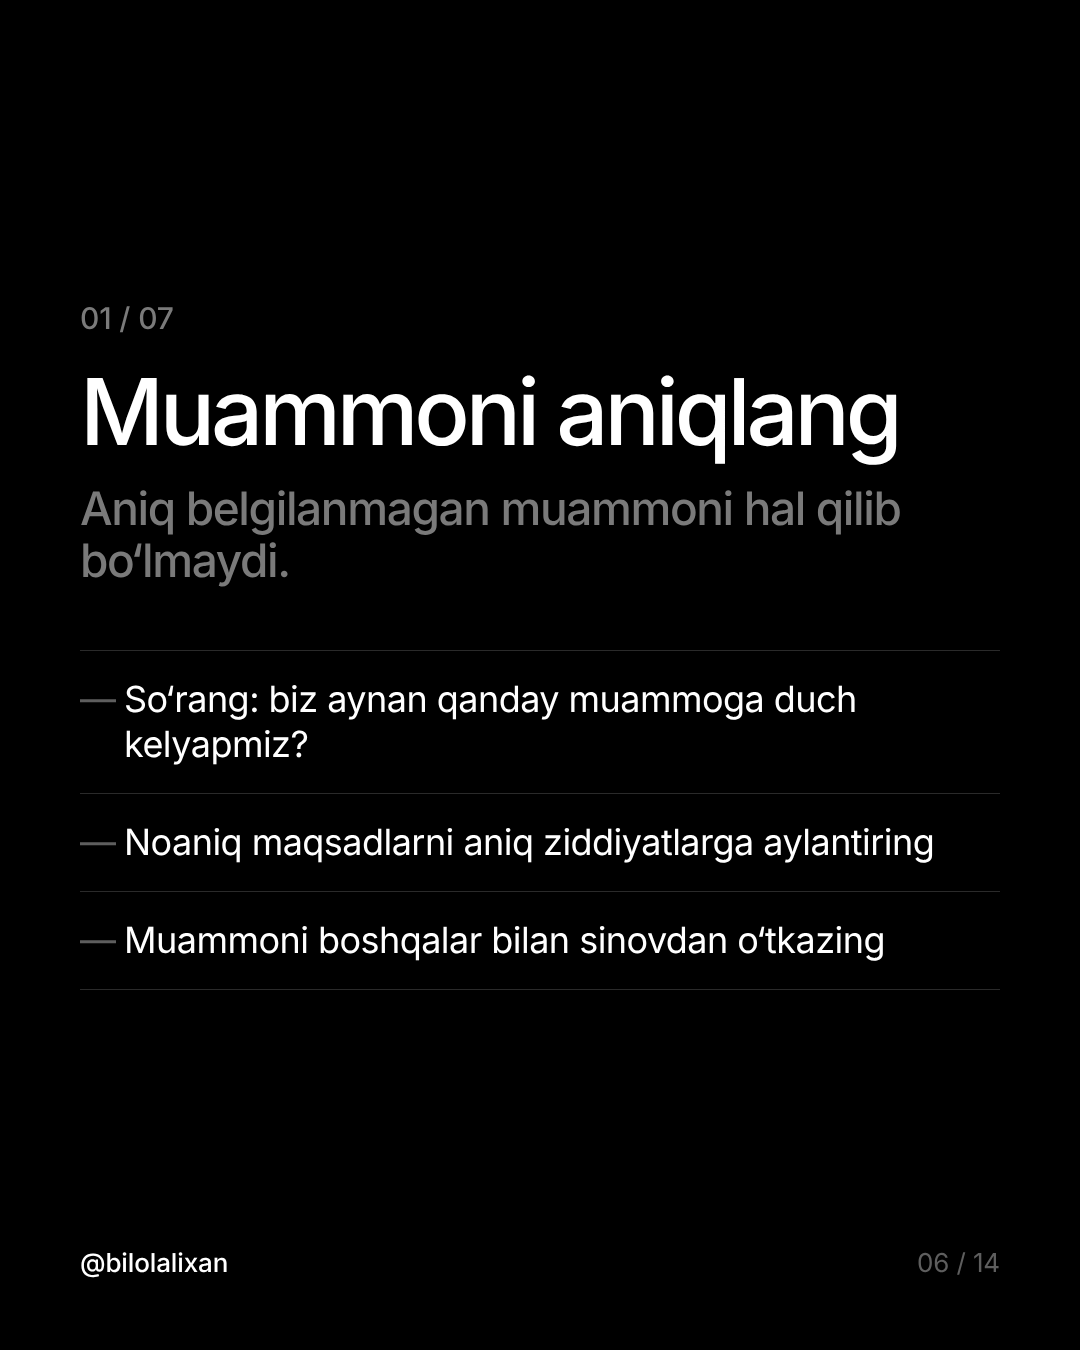
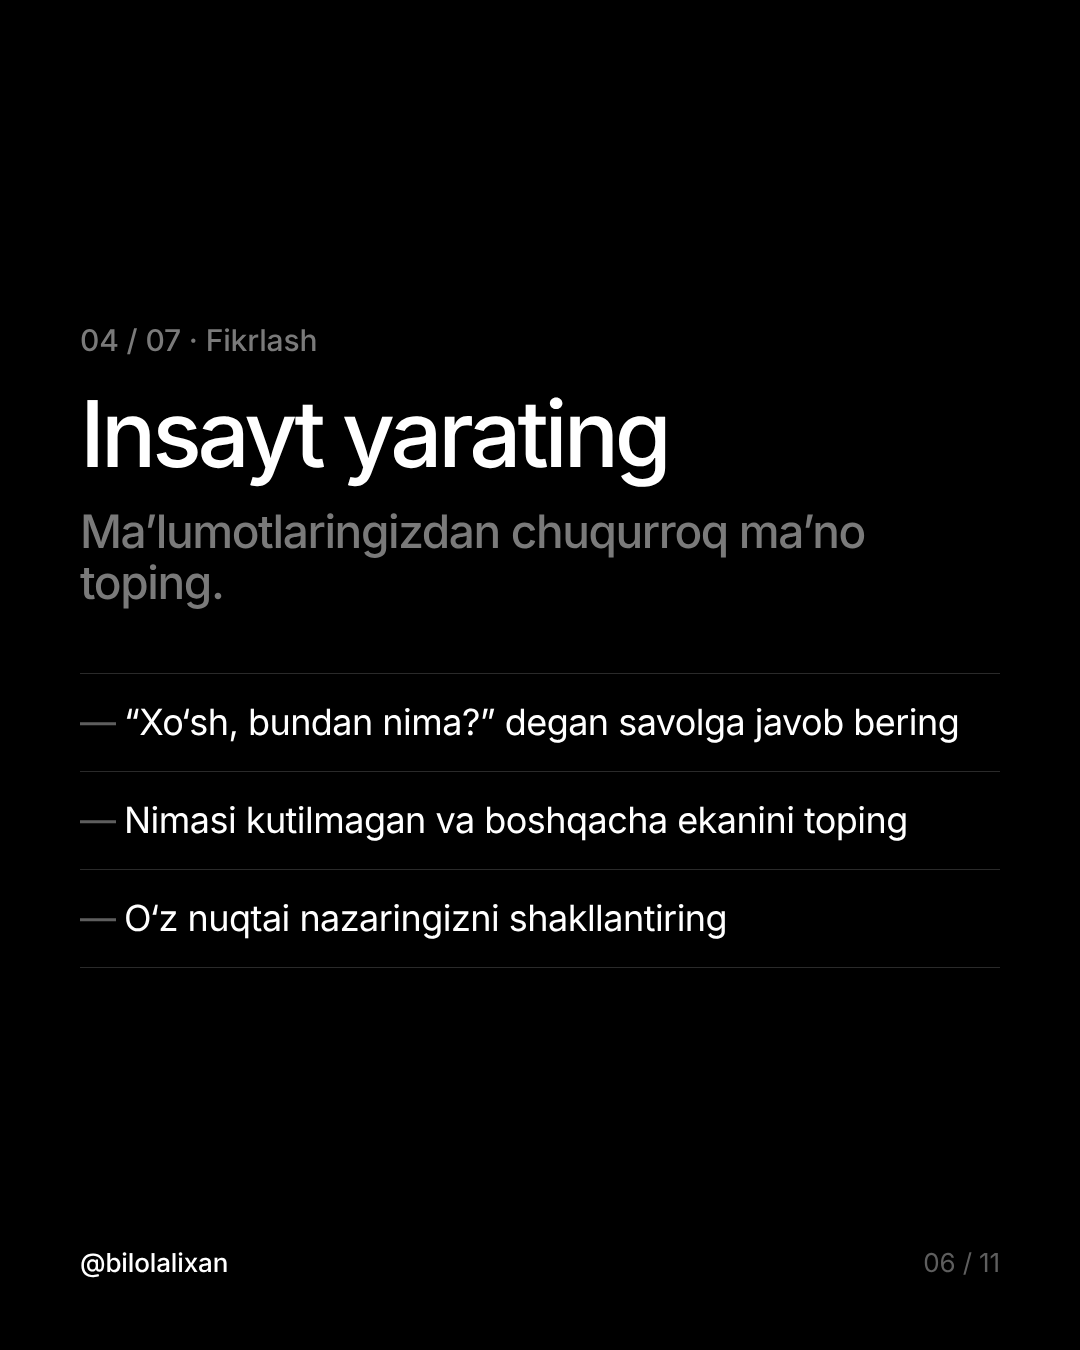
Strategy carousel: use infographic text instead of caption
Claude-Session: https://claude.ai/code/session_016hDDYxXRao7raJTtdDbdUH

diff --git a/carousel-strategiya/carousel.html b/carousel-strategiya/carousel.html
@@ -15,18 +15,15 @@ li::before{content:"—";position:absolute;left:0;color:#5E5E5E}
 .u,.n{position:absolute;bottom:72px;font-size:26px;font-weight:500;letter-spacing:-.005em}
 .u{left:80px;color:#FFF}.n{right:80px;color:#5E5E5E;font-weight:400}
 </style></head><body>
-<section class="s" id="s1"><div class="t" style="font-size:92px">Fikringiz tumanli bo‘lsa, <span class="g">strategiyangiz ham tumanli bo‘ladi.</span></div><div class="u">@bilolalixan</div><div class="n">01 / 14</div></section>
-<section class="s" id="s2"><div class="t" style="font-size:104px">Aniqlik — <span class="g">sizning eng katta ustunligingiz.</span></div><div class="u">@bilolalixan</div><div class="n">02 / 14</div></section>
-<section class="s" id="s3"><div class="t" style="font-size:82px">Muhim qarorlarda asosiy muammo — “tuman”: <span class="g">noaniq maqsadlar, bir&#8209;biriga zid fikrlar, cheksiz yig‘ilishlar va hech qanday natija yo‘q.</span></div><div class="u">@bilolalixan</div><div class="n">03 / 14</div></section>
-<section class="s" id="s4"><div class="t" style="font-size:82px">Aniq fikrlaydiganlar bu tumanni yorib o‘tadi. <span class="g">Ular tartibsizlikka tartib beradi va ishni oldinga siljitadigan qarorlar qabul qiladi.</span></div><div class="u">@bilolalixan</div><div class="n">04 / 14</div></section>
-<section class="s" id="s5"><div class="t" style="font-size:104px">Mana buni 7 bosqichda qanday qilish mumkin:</div><div class="u">@bilolalixan</div><div class="n">05 / 14</div></section>
-<section class="s" id="s6"><div><div class="no">01 / 07</div><div class="t" style="font-size:92px">Muammoni aniqlang</div><div class="st">Aniq belgilanmagan muammoni hal qilib bo‘lmaydi.</div><ul><li>So‘rang: biz aynan qanday muammoga duch kelyapmiz?</li><li>Noaniq maqsadlarni aniq ziddiyatlarga aylantiring</li><li>Muammoni boshqalar bilan sinovdan o‘tkazing</li></ul></div><div class="u">@bilolalixan</div><div class="n">06 / 14</div></section>
-<section class="s" id="s7"><div><div class="no">02 / 07</div><div class="t" style="font-size:92px">Kichik qismlarga bo‘ling</div><div class="st">Katta muammolar murakkablik ichida yashirinadi.</div><ul><li>“Muammolar daraxti” yoki “5 marta nega?” usulidan foydalaning</li><li>Eng muhim qismlarni birinchi o‘ringa qo‘ying</li><li>Asl sabablarni yuzaki belgilardan ajrating</li></ul></div><div class="u">@bilolalixan</div><div class="n">07 / 14</div></section>
-<section class="s" id="s8"><div><div class="no">03 / 07</div><div class="t" style="font-size:92px">Har bir qismni tahlil qiling</div><div class="st">Taxmin qilmang, dalilga tayaning.</div><ul><li>Ma’lumotlar, trendlar va xatti&#8209;harakatlarga qarang</li><li>To‘siqlar, bo‘shliqlar va g‘ayrioddiy holatlarni toping</li><li>So‘rang: buni nima harakatlantiryapti va nima o‘zgardi?</li></ul></div><div class="u">@bilolalixan</div><div class="n">08 / 14</div></section>
-<section class="s" id="s9"><div><div class="no">04 / 07</div><div class="t" style="font-size:92px">Insayt yarating</div><div class="st">Umumlashtirish faktlarni ma’noga aylantiradi.</div><ul><li>Har bir topilmadan keyin “Xo‘sh, bundan nima?” deb so‘rang</li><li>Ko‘rinmaydigan cheklovlarni yuzaga chiqaring</li><li>Nima qilish kerakligi haqida aniq nuqtai nazar shakllantiring</li></ul></div><div class="u">@bilolalixan</div><div class="n">09 / 14</div></section>
-<section class="s" id="s10"><div><div class="no">05 / 07</div><div class="t" style="font-size:92px">Hikoya tuzing</div><div class="st">Strategiya boshqalar tushunsagina foydali.</div><ul><li>Uni “muammo → katta g‘oya → harakat” ko‘rinishida tuzing</li><li>Auditoriyangizga moslashtiring</li><li>Sodda, tartibli va esda qoladigan qiling</li></ul></div><div class="u">@bilolalixan</div><div class="n">10 / 14</div></section>
-<section class="s" id="s11"><div><div class="no">06 / 07</div><div class="t" style="font-size:92px">Qaror qabul qiling</div><div class="st">Mukammal vaqtni kutmang.</div><ul><li>Nimadan voz kechayotganingizni aniq belgilang</li><li>O‘zingiz uchun mantiqli mezonlar asosida tanlang</li><li>Ishonch bilan qaror qiling</li></ul></div><div class="u">@bilolalixan</div><div class="n">11 / 14</div></section>
-<section class="s" id="s12"><div><div class="no">07 / 07</div><div class="t" style="font-size:92px">Dadil harakat qiling</div><div class="st">Ijrosiz fikrlash hech narsa emas.</div><ul><li>Tez va aniq yo‘naltirilgan tajribalardan boshlang</li><li>Silliqlikdan ko‘ra o‘rganishni ustun qo‘ying</li><li>Ishonch uyg‘otadigan, ko‘zga ko‘rinadigan g‘alabalar yarating</li><li>O‘rganing va takomillashtiring</li></ul></div><div class="u">@bilolalixan</div><div class="n">12 / 14</div></section>
-<section class="s" id="s13"><div class="t" style="font-size:82px">Aniq fikrlash — bu super kuch. <span class="g">Fikringizni tartibga soling, aniq gapiring va odamlarni harakatga undang.</span></div><div class="u">@bilolalixan</div><div class="n">13 / 14</div></section>
-<section class="s" id="s14"><div><div class="t g" style="font-size:92px">Shu kabi foydali ma’lumotlar uchun</div><div class="t" style="font-size:92px;margin-top:6px">sahifamga obuna bo‘ling.</div><div class="h">@bilolalixan</div><div class="sub">Saqlab qo‘ying va kerakli odamga ulashing.</div></div><div class="u">@bilolalixan</div><div class="n">14 / 14</div></section>
+<section class="s" id="s1"><div class="t" style="font-size:82px">Strategik fikrlash. <span class="g">Murakkab muammolarni hal qilish, ishonarli gapirish va qat’iy harakat qilish uchun 7 bosqichli metod.</span></div><div class="u">@bilolalixan</div><div class="n">01 / 11</div></section>
+<section class="s" id="s2"><div class="t" style="font-size:92px">1–4-bosqichlar — fikrlash. <span class="g">O‘z nuqtai nazaringiz va strategik qadamingizni qurasiz.</span></div><div class="u">@bilolalixan</div><div class="n">02 / 11</div></section>
+<section class="s" id="s3"><div><div class="no">01 / 07 · Fikrlash</div><div class="t" style="font-size:92px">Muammoni aniqlang</div><div class="st">Biz hal qilayotgan <i>haqiqiy</i> muammoni toping.</div><ul><li>Ziddiyatni toping: nima ishlamayapti va nega bu muhim</li><li>Kerak bo‘lsa, muammoni qayta shakllantiring</li></ul></div><div class="u">@bilolalixan</div><div class="n">03 / 11</div></section>
+<section class="s" id="s4"><div><div class="no">02 / 07 · Fikrlash</div><div class="t" style="font-size:92px">Kichik qismlarga bo‘ling</div><div class="st">Murakkab muammoni boshqariladigan qiling.</div><ul><li>Muammoni bo‘laklash uchun “muammolar daraxti”dan foydalaning</li><li>Asl sababga yetish uchun “5 marta nega?” usulini qo‘llang</li></ul></div><div class="u">@bilolalixan</div><div class="n">04 / 11</div></section>
+<section class="s" id="s5"><div><div class="no">03 / 07 · Fikrlash</div><div class="t" style="font-size:92px">Har bir qismni tahlil qiling</div><div class="st">Muammoni o‘rganing va dalil toping.</div><ul><li>80/20, trend tahlili, benchmark kabi vositalardan foydalaning</li><li>Natijaga eng ko‘p ta’sir qiladigan narsani toping</li></ul></div><div class="u">@bilolalixan</div><div class="n">05 / 11</div></section>
+<section class="s" id="s6"><div><div class="no">04 / 07 · Fikrlash</div><div class="t" style="font-size:92px">Insayt yarating</div><div class="st">Ma’lumotlaringizdan chuqurroq ma’no toping.</div><ul><li>“Xo‘sh, bundan nima?” degan savolga javob bering</li><li>Nimasi kutilmagan va boshqacha ekanini toping</li><li>O‘z nuqtai nazaringizni shakllantiring</li></ul></div><div class="u">@bilolalixan</div><div class="n">06 / 11</div></section>
+<section class="s" id="s7"><div class="t" style="font-size:92px">5–7-bosqichlar — ta’sir qilish. <span class="g">Ishonarli hikoya qilasiz va strategiyani hayotga tatbiq etasiz.</span></div><div class="u">@bilolalixan</div><div class="n">07 / 11</div></section>
+<section class="s" id="s8"><div><div class="no">05 / 07 · Ta’sir qilish</div><div class="t" style="font-size:92px">Hikoya tuzing</div><div class="st">Javobni ishonarli hikoyaga aylantiring.</div><ul><li>Yaxshi hikoya muammo, katta g‘oya va harakatni tushuntiradi</li><li>Sodda til va vizuallardan foydalaning</li></ul></div><div class="u">@bilolalixan</div><div class="n">08 / 11</div></section>
+<section class="s" id="s9"><div><div class="no">06 / 07 · Ta’sir qilish</div><div class="t" style="font-size:92px">Qaror qabul qiling</div><div class="st">Nimadan voz kechayotganingizni bilib, tanlov qiling.</div><ul><li>Variantlarni aniq belgilang: har biri boshqasidan farq qilsin</li><li>Baholash usulidan foydalaning</li></ul></div><div class="u">@bilolalixan</div><div class="n">09 / 11</div></section>
+<section class="s" id="s10"><div><div class="no">07 / 07 · Ta’sir qilish</div><div class="t" style="font-size:92px">Dadil harakat qiling</div><div class="st">Aniq fikrlash faqat harakatga olib kelsa qadrli.</div><ul><li>Mukammallikdan ko‘ra tezlikni ustun qo‘ying</li><li>Kichik tajribalardan boshlang</li><li>O‘rganing va takomillashtiring</li></ul></div><div class="u">@bilolalixan</div><div class="n">10 / 11</div></section>
+<section class="s" id="s11"><div><div class="t g" style="font-size:92px">Shu kabi foydali ma’lumotlar uchun</div><div class="t" style="font-size:92px;margin-top:6px">sahifamga obuna bo‘ling.</div><div class="h">@bilolalixan</div><div class="sub">Saqlab qo‘ying va kerakli odamga ulashing.</div></div><div class="u">@bilolalixan</div><div class="n">11 / 11</div></section>
 </body></html>

diff --git a/carousel-strategiya/slides.py b/carousel-strategiya/slides.py
@@ -2,26 +2,23 @@
 # [g]...[/g] marks the grey (secondary) part of a sentence.
 USER = "@bilolalixan"
 S = [
- "Fikringiz tumanli bo‘lsa, [g]strategiyangiz ham tumanli bo‘ladi.[/g]",
- "Aniqlik — [g]sizning eng katta ustunligingiz.[/g]",
- "Muhim qarorlarda asosiy muammo — “tuman”: [g]noaniq maqsadlar, bir&#8209;biriga zid fikrlar, cheksiz yig‘ilishlar va hech qanday natija yo‘q.[/g]",
- "Aniq fikrlaydiganlar bu tumanni yorib o‘tadi. [g]Ular tartibsizlikka tartib beradi va ishni oldinga siljitadigan qarorlar qabul qiladi.[/g]",
- "Mana buni 7 bosqichda qanday qilish mumkin:",
- ("Muammoni aniqlang", "Aniq belgilanmagan muammoni hal qilib bo‘lmaydi.",
-  ["So‘rang: biz aynan qanday muammoga duch kelyapmiz?", "Noaniq maqsadlarni aniq ziddiyatlarga aylantiring", "Muammoni boshqalar bilan sinovdan o‘tkazing"]),
- ("Kichik qismlarga bo‘ling", "Katta muammolar murakkablik ichida yashirinadi.",
-  ["“Muammolar daraxti” yoki “5 marta nega?” usulidan foydalaning", "Eng muhim qismlarni birinchi o‘ringa qo‘ying", "Asl sabablarni yuzaki belgilardan ajrating"]),
- ("Har bir qismni tahlil qiling", "Taxmin qilmang, dalilga tayaning.",
-  ["Ma’lumotlar, trendlar va xatti&#8209;harakatlarga qarang", "To‘siqlar, bo‘shliqlar va g‘ayrioddiy holatlarni toping", "So‘rang: buni nima harakatlantiryapti va nima o‘zgardi?"]),
- ("Insayt yarating", "Umumlashtirish faktlarni ma’noga aylantiradi.",
-  ["Har bir topilmadan keyin “Xo‘sh, bundan nima?” deb so‘rang", "Ko‘rinmaydigan cheklovlarni yuzaga chiqaring", "Nima qilish kerakligi haqida aniq nuqtai nazar shakllantiring"]),
- ("Hikoya tuzing", "Strategiya boshqalar tushunsagina foydali.",
-  ["Uni “muammo → katta g‘oya → harakat” ko‘rinishida tuzing", "Auditoriyangizga moslashtiring", "Sodda, tartibli va esda qoladigan qiling"]),
- ("Qaror qabul qiling", "Mukammal vaqtni kutmang.",
-  ["Nimadan voz kechayotganingizni aniq belgilang", "O‘zingiz uchun mantiqli mezonlar asosida tanlang", "Ishonch bilan qaror qiling"]),
- ("Dadil harakat qiling", "Ijrosiz fikrlash hech narsa emas.",
-  ["Tez va aniq yo‘naltirilgan tajribalardan boshlang", "Silliqlikdan ko‘ra o‘rganishni ustun qo‘ying", "Ishonch uyg‘otadigan, ko‘zga ko‘rinadigan g‘alabalar yarating", "O‘rganing va takomillashtiring"]),
- "Aniq fikrlash — bu super kuch. [g]Fikringizni tartibga soling, aniq gapiring va odamlarni harakatga undang.[/g]",
+ "Strategik fikrlash. [g]Murakkab muammolarni hal qilish, ishonarli gapirish va qat’iy harakat qilish uchun 7 bosqichli metod.[/g]",
+ "1–4-bosqichlar — fikrlash. [g]O‘z nuqtai nazaringiz va strategik qadamingizni qurasiz.[/g]",
+ ("Muammoni aniqlang", "Biz hal qilayotgan <i>haqiqiy</i> muammoni toping.",
+  ["Ziddiyatni toping: nima ishlamayapti va nega bu muhim", "Kerak bo‘lsa, muammoni qayta shakllantiring"], "Fikrlash"),
+ ("Kichik qismlarga bo‘ling", "Murakkab muammoni boshqariladigan qiling.",
+  ["Muammoni bo‘laklash uchun “muammolar daraxti”dan foydalaning", "Asl sababga yetish uchun “5 marta nega?” usulini qo‘llang"], "Fikrlash"),
+ ("Har bir qismni tahlil qiling", "Muammoni o‘rganing va dalil toping.",
+  ["80/20, trend tahlili, benchmark kabi vositalardan foydalaning", "Natijaga eng ko‘p ta’sir qiladigan narsani toping"], "Fikrlash"),
+ ("Insayt yarating", "Ma’lumotlaringizdan chuqurroq ma’no toping.",
+  ["“Xo‘sh, bundan nima?” degan savolga javob bering", "Nimasi kutilmagan va boshqacha ekanini toping", "O‘z nuqtai nazaringizni shakllantiring"], "Fikrlash"),
+ "5–7-bosqichlar — ta’sir qilish. [g]Ishonarli hikoya qilasiz va strategiyani hayotga tatbiq etasiz.[/g]",
+ ("Hikoya tuzing", "Javobni ishonarli hikoyaga aylantiring.",
+  ["Yaxshi hikoya muammo, katta g‘oya va harakatni tushuntiradi", "Sodda til va vizuallardan foydalaning"], "Ta’sir qilish"),
+ ("Qaror qabul qiling", "Nimadan voz kechayotganingizni bilib, tanlov qiling.",
+  ["Variantlarni aniq belgilang: har biri boshqasidan farq qilsin", "Baholash usulidan foydalaning"], "Ta’sir qilish"),
+ ("Dadil harakat qiling", "Aniq fikrlash faqat harakatga olib kelsa qadrli.",
+  ["Mukammallikdan ko‘ra tezlikni ustun qo‘ying", "Kichik tajribalardan boshlang", "O‘rganing va takomillashtiring"], "Ta’sir qilish"),
 ]
 CTA = ('<div class="t g" style="font-size:92px">Shu kabi foydali ma’lumotlar uchun</div>'
        '<div class="t" style="font-size:92px;margin-top:6px">sahifamga obuna bo‘ling.</div>'
@@ -41,9 +38,9 @@ step = 0
 for i, t in enumerate(S, 1):
     if isinstance(t, tuple):
         step += 1
-        ti, sub, bl = t
+        ti, sub, bl, grp = t
         lis = ''.join(f'<li>{x}</li>' for x in bl)
-        out.append(f'<section class="s" id="s{i}"><div><div class="no">{step:02d} / 07</div><div class="t" style="font-size:92px">{ti}</div><div class="st">{sub}</div><ul>{lis}</ul></div>{foot(i)}</section>')
+        out.append(f'<section class="s" id="s{i}"><div><div class="no">{step:02d} / 07 · {grp}</div><div class="t" style="font-size:92px">{ti}</div><div class="st">{sub}</div><ul>{lis}</ul></div>{foot(i)}</section>')
         continue
     body = t.replace('[g]', '<span class="g">').replace('[/g]', '</span>')
     out.append(f'<section class="s" id="s{i}"><div class="t" style="font-size:{size(t)}px">{body}</div>{foot(i)}</section>')
